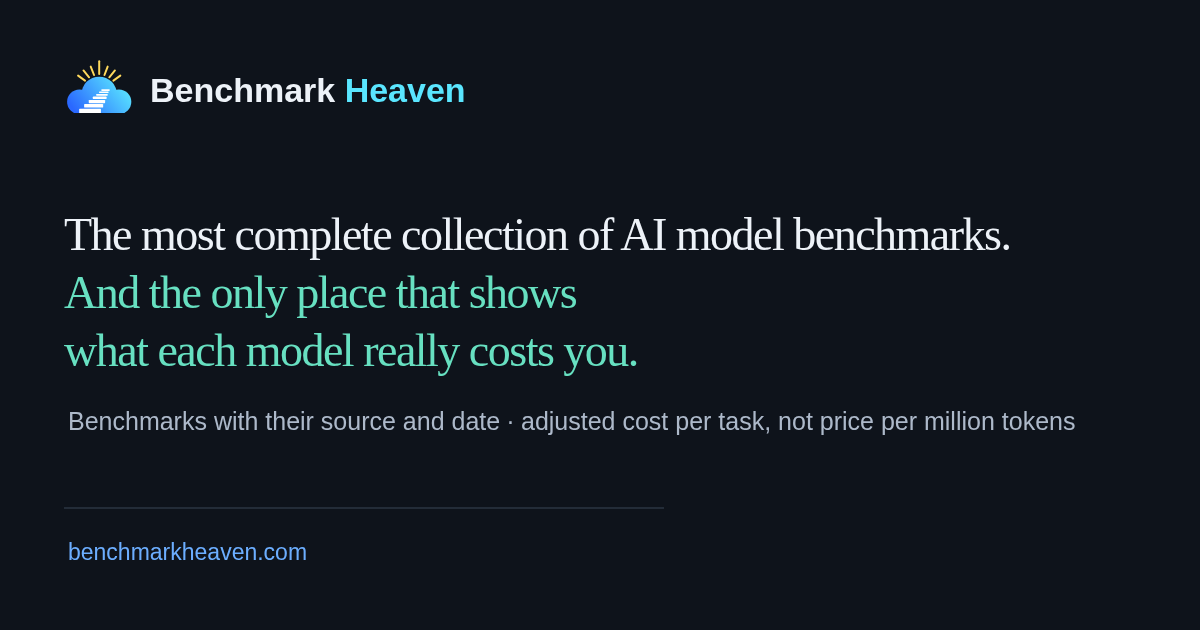
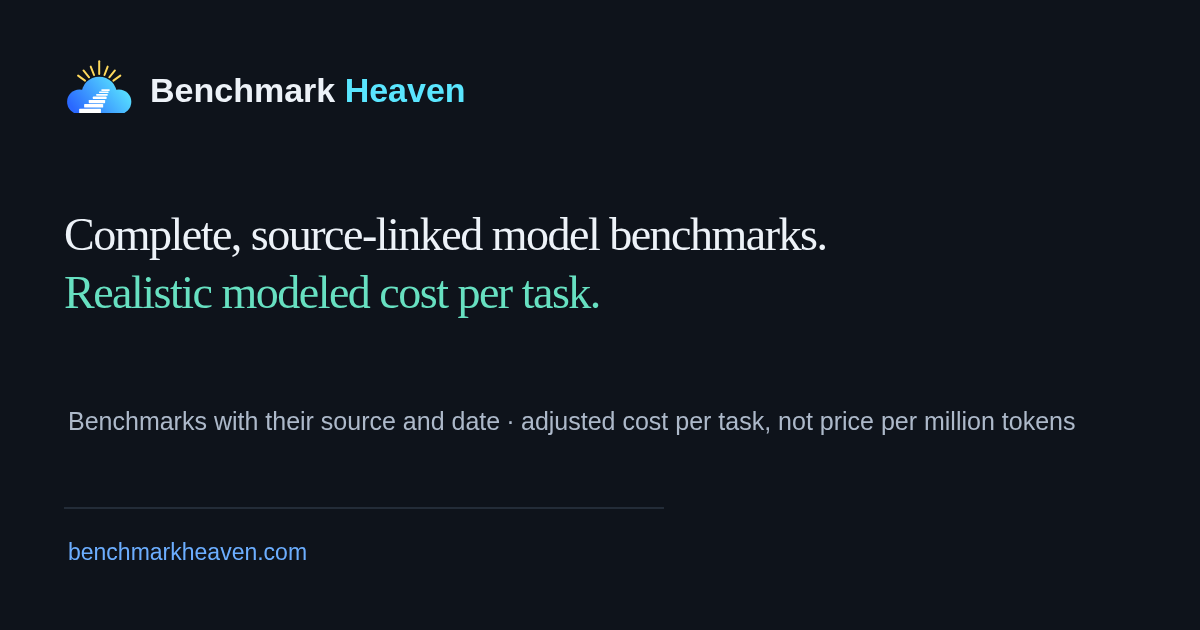
Use honest hero copy and strict simple score floor

Changed region(s): [[0.0308, 0.3317, 0.8325, 0.6032]]

diff --git a/app/layout.tsx b/app/layout.tsx
@@ -15,10 +15,10 @@ export const metadata: Metadata = {
   description: "Published benchmark results for hundreds of models, gathered in one place with their sources and dates — and a cost per task that accounts for the provider, its caching and the model's own token appetite.",
   openGraph: {
     type: "website", siteName: "Benchmark Heaven",
-    title: "Benchmark Heaven", description: "The most complete collection of AI model benchmarks, and the only place that shows what each model really costs you.",
-    images: [{ url: "/brand/og-image.png", width: 1200, height: 630, alt: "Benchmark Heaven — The most complete collection of AI model benchmarks, and the only place that shows what each model really costs you." }],
+    title: "Benchmark Heaven", description: "A complete, source-linked collection of tracked AI model benchmarks, with realistic modeled cost per task grounded in provider prices, caching, and token efficiency.",
+    images: [{ url: "/brand/og-image.png", width: 1200, height: 630, alt: "Benchmark Heaven — complete, source-linked model benchmarks and realistic modeled cost per task." }],
   },
-  twitter: { card: "summary_large_image", title: "Benchmark Heaven", description: "The most complete collection of AI model benchmarks, and the only place that shows what each model really costs you.", images: ["/brand/og-image.png"] },
+  twitter: { card: "summary_large_image", title: "Benchmark Heaven", description: "Complete, source-linked model benchmarks with realistic modeled cost per task.", images: ["/brand/og-image.png"] },
   icons: { icon: "/icon.svg", apple: "/apple-icon.png" },
 };
 
@@ -48,7 +48,7 @@ export default async function RootLayout({ children }: { children: React.ReactNo
               <span className="bh-wordmark text-base">Benchmark Heaven</span>
               <div className="flex flex-wrap gap-4"><a href="/about">Sources &amp; methodology</a><a href="https://github.com/fstandhartinger/model-market-comparison/blob/main/API.md">Public API</a><a href="https://github.com/fstandhartinger/model-market-comparison">GitHub</a></div>
             </div>
-            <p>The most complete collection of AI model benchmarks, and the only place that shows what each model really costs you.
+            <p>A complete, source-linked collection of tracked AI model benchmarks, with realistic modeled cost per task grounded in provider prices, caching, and token efficiency.
               Data from OpenRouter, Artificial Analysis, Epoch AI, DesignArena, benchmark maintainers and provider catalogs, each with its source date.</p>
           </footer>
         </SettingsProvider>

diff --git a/lib/settings-state.ts b/lib/settings-state.ts
@@ -39,7 +39,7 @@ export interface SettingsState {
   inputWeight: number;     // raw mode's fixed input:output blend; persists while adjusted
 }
 
-export const SETTINGS_DEFAULTS: SettingsState = { score: DEFAULT_SCORE, collapse: true, featured: true, hideDeprecated: true, excludeChinese: false, euHostedOnly: false, nonUsOnly: false, openOnly: false, minScore: 85, minScoreTouched: false, simpleMaxCost: null, advancedMinScore: 0, featuredTouched: false, teeOnly: false, allowDataTraining: false, isCompany: false, maxCost: null, minIntelligence: null, minCoding: null, providersExcluded: [], families: [], priceMode: "adjusted", inputWeight: DEFAULT_BLEND };
+export const SETTINGS_DEFAULTS: SettingsState = { score: DEFAULT_SCORE, collapse: true, featured: true, hideDeprecated: true, excludeChinese: false, euHostedOnly: false, nonUsOnly: false, openOnly: false, minScore: 86, minScoreTouched: false, simpleMaxCost: null, advancedMinScore: 0, featuredTouched: false, teeOnly: false, allowDataTraining: false, isCompany: false, maxCost: null, minIntelligence: null, minCoding: null, providersExcluded: [], families: [], priceMode: "adjusted", inputWeight: DEFAULT_BLEND };
 
 const BLEND_VALUES = new Set(FIXED_BLENDS.map((b) => b.value));
 export const isBlendValue = (n: number) => BLEND_VALUES.has(n);

diff --git a/app/page.tsx b/app/page.tsx
@@ -26,7 +26,7 @@ export default async function Home() {
       {/* F-01 (Fable 5.1 design pass, 2026-09-13): compact hero — the recommendation list
           must be visible on the first screen. R3.1 claim decided in DESIGN-DIRECTIVES.md. */}
       <section className="bh-hero mb-4">
-        <h1 className="bh-display">The most complete collection of AI model benchmarks.<br /><span>And the only place that shows what each model really costs you.</span></h1>
+        <h1 className="bh-display">A complete, source-linked collection of AI model benchmarks.<br /><span>Realistic modeled cost per task, grounded in provider prices, caching, and token efficiency.</span></h1>
         <p className="bh-hero-line mt-2 text-sm text-gray-400">
           <span className="tabular">{results.toLocaleString()}</span> results · <span className="tabular">{benchmarks}</span> benchmarks · <span className="tabular">{ds.counts.models.toLocaleString()}</span> models · updated {updated}
         </p>

diff --git a/lib/cost.ts b/lib/cost.ts
@@ -256,11 +256,11 @@ export function scoreOf(m: ClientModel, key: ScoreKey): number | null {
 
 /** Sensible default minimum for a score: DesignArena is Elo (~1000), AA indices ~35,
  *  Composite is a 0–100 blend (no floor by default). */
-/** The min-score a score selection resets to. For Composite this is 85 (R5.3) — the same
+/** The min-score a score selection resets to. For Composite this is 86 (R5.3) — the same
  *  value `SettingsContext` starts from, so a fresh page is not reported as "modified" and
  *  Reset does not silently widen the shortlist it was supposed to restore. */
 export function defaultMinFor(score: ScoreKey): number {
-  if (score === "composite") return 85;
+  if (score === "composite") return 86;
   return score.startsWith("designarena") ? 1000 : 35;
 }
 

diff --git a/components/ModelExplorer.tsx b/components/ModelExplorer.tsx
@@ -63,7 +63,7 @@ export function ModelExplorer({ data, limit, defaultSort, defaultAsc, simple, gu
   // not in Advanced, which must be able to show every priced model.
   const [measuredTasksOnly, setMeasuredTasksOnly] = useState(!!simple);
   const [org, setOrg] = useState("");
-  // F-40: the floor and the cap are split by mode. Simple's sliders own Simple's pair (85 until
+  // F-40: the floor and the cap are split by mode. Simple's sliders own Simple's pair (86 until
   // changed / no limit); Advanced's toolbar and the Guided wizard own the Advanced pair (no floor
   // / no limit until changed). Guided results render Simple's layout but read Advanced's pair, so
   // neither the wizard nor a nudged Simple slider can filter the other view invisibly.

diff --git a/components/Wizard.tsx b/components/Wizard.tsx
@@ -79,7 +79,7 @@ export function Wizard({ data, onFinish }: { data: ClientData; onFinish: () => v
   const [codingMonths, setCodingMonths] = useState<number | null>(null);
 
   // The questionnaire never asks about the Composite, so it must not inherit Simple mode's
-  // ≥ 85 default — that would quietly filter the result by a criterion the user was not
+  // Simple's default floor — that would quietly filter the result by a criterion the user was not
   // asked about. Capability is asked on step 3 and applied there instead.
   // F-40: the wizard writes only the Advanced pair (its results and "Open in Advanced" read it)
   // and never Simple's floor or cap — pass 4 found Simple opening at 70 after a Guided visit.

diff --git a/components/ShortlistControls.tsx b/components/ShortlistControls.tsx
@@ -11,7 +11,7 @@ import type { ScoreKey } from "../lib/types";
  *  ausgeben will, und dann bekommt er die liste der empfehlenswertesten Modelle."
  *
  *  R5.5 asks for the distribution to appear when a slider is moved. It is shown
- *  permanently instead: the score limit is already active at 85 on first paint, so a
+ *  permanently instead: the score limit is already active at 86 on first paint, so a
  *  histogram that only appeared on interaction would hide the very fact that the default
  *  is cutting the field — and the chart is the point ("viele Diagramme"). The cost
  *  histogram is binned on a log scale: adjusted task costs span three orders of magnitude,

diff --git a/ops/ux-2026-09-12/PROGRESS.md b/ops/ux-2026-09-12/PROGRESS.md
@@ -51,7 +51,7 @@ credited below, the rest is marked open.
 | R1.8 | (i): desktop hover tooltip, mobile modal with ✕; a11y | verified | `ux-evidence/review-20260913T110002Z/broad-fixed-{canonical,legacy}/verification.json` | Codex rechecked desktop tooltip and mobile open/close: `dialog[open]` is 0 after close |
 | R2.1 | Remove Channels / Top provider channels columns | verified | `ux-evidence/iter1-live/verification.json` | from `f59c021`; re-checked live — neither column string is rendered |
 | R2.2 | Add #benchmarks and #providers columns | verified | `ux-evidence/review-20260913T110002Z/broad-fixed-{canonical,legacy}/verification.json` | Current Simple and Advanced tables expose both columns; source code uses full benchmark coverage, not Composite slots |
-| R3.1 | New hero claim (most complete collection + realistic cost) | open | `ux-evidence/fable-20260913-pass6/`, `ux-evidence/review-20260913T205002Z/broad-{canonical,legacy}/verification.json`, `DESIGN-DIRECTIVES.md` "Decisions in pass 6" | Reopened by this gate: the live line still says “the only place that shows what each model really costs you”, while Artificial Analysis also exposes a per-model Cost per Task. The product's filtered provider-route and measured-efficiency distinction may support narrower wording, but the exclusive claim is not proven; P4 remains open. |
+| R3.1 | New hero claim (most complete collection + realistic cost) | in-progress | `ux-evidence/fable-20260913-pass6/`, `ux-evidence/review-20260913T205002Z/broad-{canonical,legacy}/verification.json`, `DESIGN-DIRECTIVES.md` "Decisions in pass 6" | Iteration 35 is replacing the unsupported exclusive wording with a source-linked, coverage-qualified claim and will update metadata/OG/footer consistently. Artificial Analysis also exposes a per-model Cost per Task; no exclusive “only place” claim will ship without evidence. |
 | R4.1 | Redesign the filter bar, elegant and uncluttered | verified | `ux-evidence/review-20260913T110002Z/agent-browser-filters.png`, `broad-fixed-{canonical,legacy}/verification.json` | Current live filter sheet is grouped into Ranking / Price basis / Regional settings / Data confidentiality / More settings |
 | R4.2 | Fixed I/O blend: add 20:1 (default) and 30:1 | verified | `ux-evidence/review-20260913T110002Z/broad-fixed-{canonical,legacy}/verification.json` | Current live options include 20:1 and 30:1; selected value is 20 |
 | R4.3 | "One variant for Reasoning models" → extra settings | verified | `ux-evidence/review-20260913T110002Z/agent-browser-filters.png` | Current live sheet places the setting under More settings |
@@ -65,7 +65,7 @@ credited below, the rest is marked open.
 | R4.11 | Evidence/provider/task-token toggles → extra settings | verified | `ux-evidence/review-20260913T110002Z/iter20-{canonical,legacy}/verification.json` | Current live Advanced controls show Evidence and Better than a model as the compact evidence popovers |
 | R5.1 | Simple (start) + Advanced mode | verified | `ux-evidence/review-20260913T110002Z/broad-fixed-{canonical,legacy}/verification.json` | Current live loads Simple selected and exposes all three modes |
 | R5.2 | Simple: top 15 featured, sorted by adjusted cost descending | verified | `ux-evidence/review-20260913T161002Z/{broad-fixed-canonical,broad-fixed-legacy}/verification.json` | Current live shows 7 qualified featured rows (within the top-15 cap) and the adjusted-cost descending header; the score/token/provider filters legitimately reduce the visible set. |
-| R5.3 | Score slider, default > 85 | open | `ux-evidence/review-20260913T205002Z/broad-{canonical,legacy}/verification.json` | Reopened: both live hosts load the Simple slider at exactly `85`, but the authoritative requirement is a default greater than 85. The pass-6 reinterpretation as ≥85 cannot be marked verified against the verbatim wording. |
+| R5.3 | Score slider, default > 85 | in-progress | `ux-evidence/review-20260913T205002Z/broad-{canonical,legacy}/verification.json` | Iteration 35 is changing the untouched Composite default to 86, updating score-aware reset semantics and acceptance checks. The authoritative requirement is literal `>85`; the prior ≥85 reinterpretation is retired. |
 | R5.4 | Max adjusted cost slider, default unlimited | verified | `ux-evidence/review-20260913T110002Z/iter20-{canonical,legacy}/verification.json` | Current live cost slider starts at no limit and shares SettingsContext with the modes |
 | R5.5 | Distribution histogram while a slider moves | verified | `ux-evidence/review-20260913T110002Z/iter20-{canonical,legacy}/verification.json` | Current live Simple map/histogram evidence has 48 bars in the two themes and both widths; range end labels are present |
 | R5.6 | Wizard (company → privacy/region → minimums → budget → results) | verified | `ux-evidence/review-20260913T110002Z/broad-fixed-{canonical,legacy}/verification.json`, `fable-canonical-fixed2/metrics.json` | Current live wizard starts with the company step and the full Fable walkthrough remains error-free; source/tests cover the five pages |
@@ -108,7 +108,7 @@ credited below, the rest is marked open.
[1 lines of base64/hex data omitted]
 | P2 | Cited capability comparison against Artificial Analysis; close the gaps that matter | in-progress | `ops/ux-2026-09-12/PRD.md`, `/opt/benchmarkheaven/state/ux-evidence/iter13-prd/verification.json` | Capability matrix now cites the allowed AA leaderboard, comparison, methodology and current-index URLs row by row; material gaps are prioritized, not claimed closed. |
 | P3 | Do not stop before P2 is achieved | open | — | |
-| P4 | Positioning claims only in a form the live coverage numbers support | open | `DESIGN-DIRECTIVES.md` §R3.1, `ux-evidence/iter14-prd-review/review-claude-opus.json` (P4-CLAIM-01) | Reopened by this gate: Artificial Analysis' comparison page also shows a per-model "Cost per Task" with cache-hit prices, so "the only place that shows what each model really costs you" is not independently supported as an exclusive claim. The live page's provider-route choice under user filters and measured token efficiency may support a narrower distinction, but X7/product review must resolve wording. |
+| P4 | Positioning claims only in a form the live coverage numbers support | in-progress | `DESIGN-DIRECTIVES.md` §R3.1, `ux-evidence/iter14-prd-review/review-claude-opus.json` (P4-CLAIM-01) | Iteration 35 applies the review gate's decision: describe the complete tracked collection and realistic modeled task cost without claiming exclusivity against Artificial Analysis. |
 | F1 | Gauntlet-loop quality: simple, elegant, intuitive, perfect UI, yet complete | in-progress | `DESIGN-DIRECTIVES.md`, `ux-evidence/iter12-f05-live/verification.json` | Fable pass judged against exactly this bar; F-05 now uses aligned score/cost magnitude bars and was live-checked by Codex, but independent verification and the remaining open directives are still required. |
 | C1 | One writer only until `ALL-ACCEPTED`; do not race another agent in this repo | open | — | iteration 1 saw only expected ops commits from the workstream's own setup and rebased cleanly. Iteration 15: no foreign commits; the only other process in the repo was the design pass's own orphaned Kimi delegate (stopped, see the log) |
 | F-19 | Benchmaxxing title, sector labels and signal table | verified | `/opt/benchmarkheaven/state/ux-evidence/iter34-indep/live-{canonical,legacy}/verification.json` (`bin/verify-r410-r58-r511-f19.mjs`) | **Independent verification (claude-opus, iteration 34; implementer codex-luna `0c37a18`):** H1 "Benchmaxxing", 10 default rows, "Show all 18 tagged", no overflow, 1440/390, both hosts. |

diff --git a/CHANGELOG.md b/CHANGELOG.md
@@ -4,6 +4,15 @@ For downstream consumers (forks, apps syncing data from this repo or the live AP
 the **data locations have not moved**. What changed recently is the hosting URL and
 some app internals — details per release below.
 
+## 2026-09-13 — Honest positioning and Simple threshold (R3.1, R5.3)
+
+The landing claim now stays source-linked and coverage-qualified: Benchmark Heaven presents
+the tracked benchmark collection and a realistic modeled cost per task grounded in provider
+prices, caching and token efficiency. The unsupported exclusive comparison with other
+products was removed from the page, metadata, footer and social image. Simple mode now starts
+at a minimum Composite score of **86** (strictly above the requested 85 threshold); Advanced
+and Guided settings remain independent.
+
 ## 2026-09-13 — Subscriptions beside the per-task cost (R6.3)
 
 **New data file: `data/raw/subscriptions.json`.** Flat-rate plans (Claude, Google AI,
@@ -94,7 +103,7 @@ the collector fails rather than publishing a table it cannot reconcile. Collect 
 - Fixed I/O blend gains **20:1 (the new default)** and **30:1**. The previous default of 20
   was not a selectable blend, so the stored value was rejected on load; the settings key
   moved to `mmc.settings.v7` to discard those payloads.
-- `defaultMinFor("composite")` is now **85**, matching the shipped default, so "reset" no
+- `defaultMinFor("composite")` is now **86**, matching the shipped default, so "reset" no
   longer widened the list it was restoring.
 - Overview table: sorts by score descending by default, the header shows the active score
   name, `#benchmarks` now counts distinct benchmarks with a result (previously it showed
